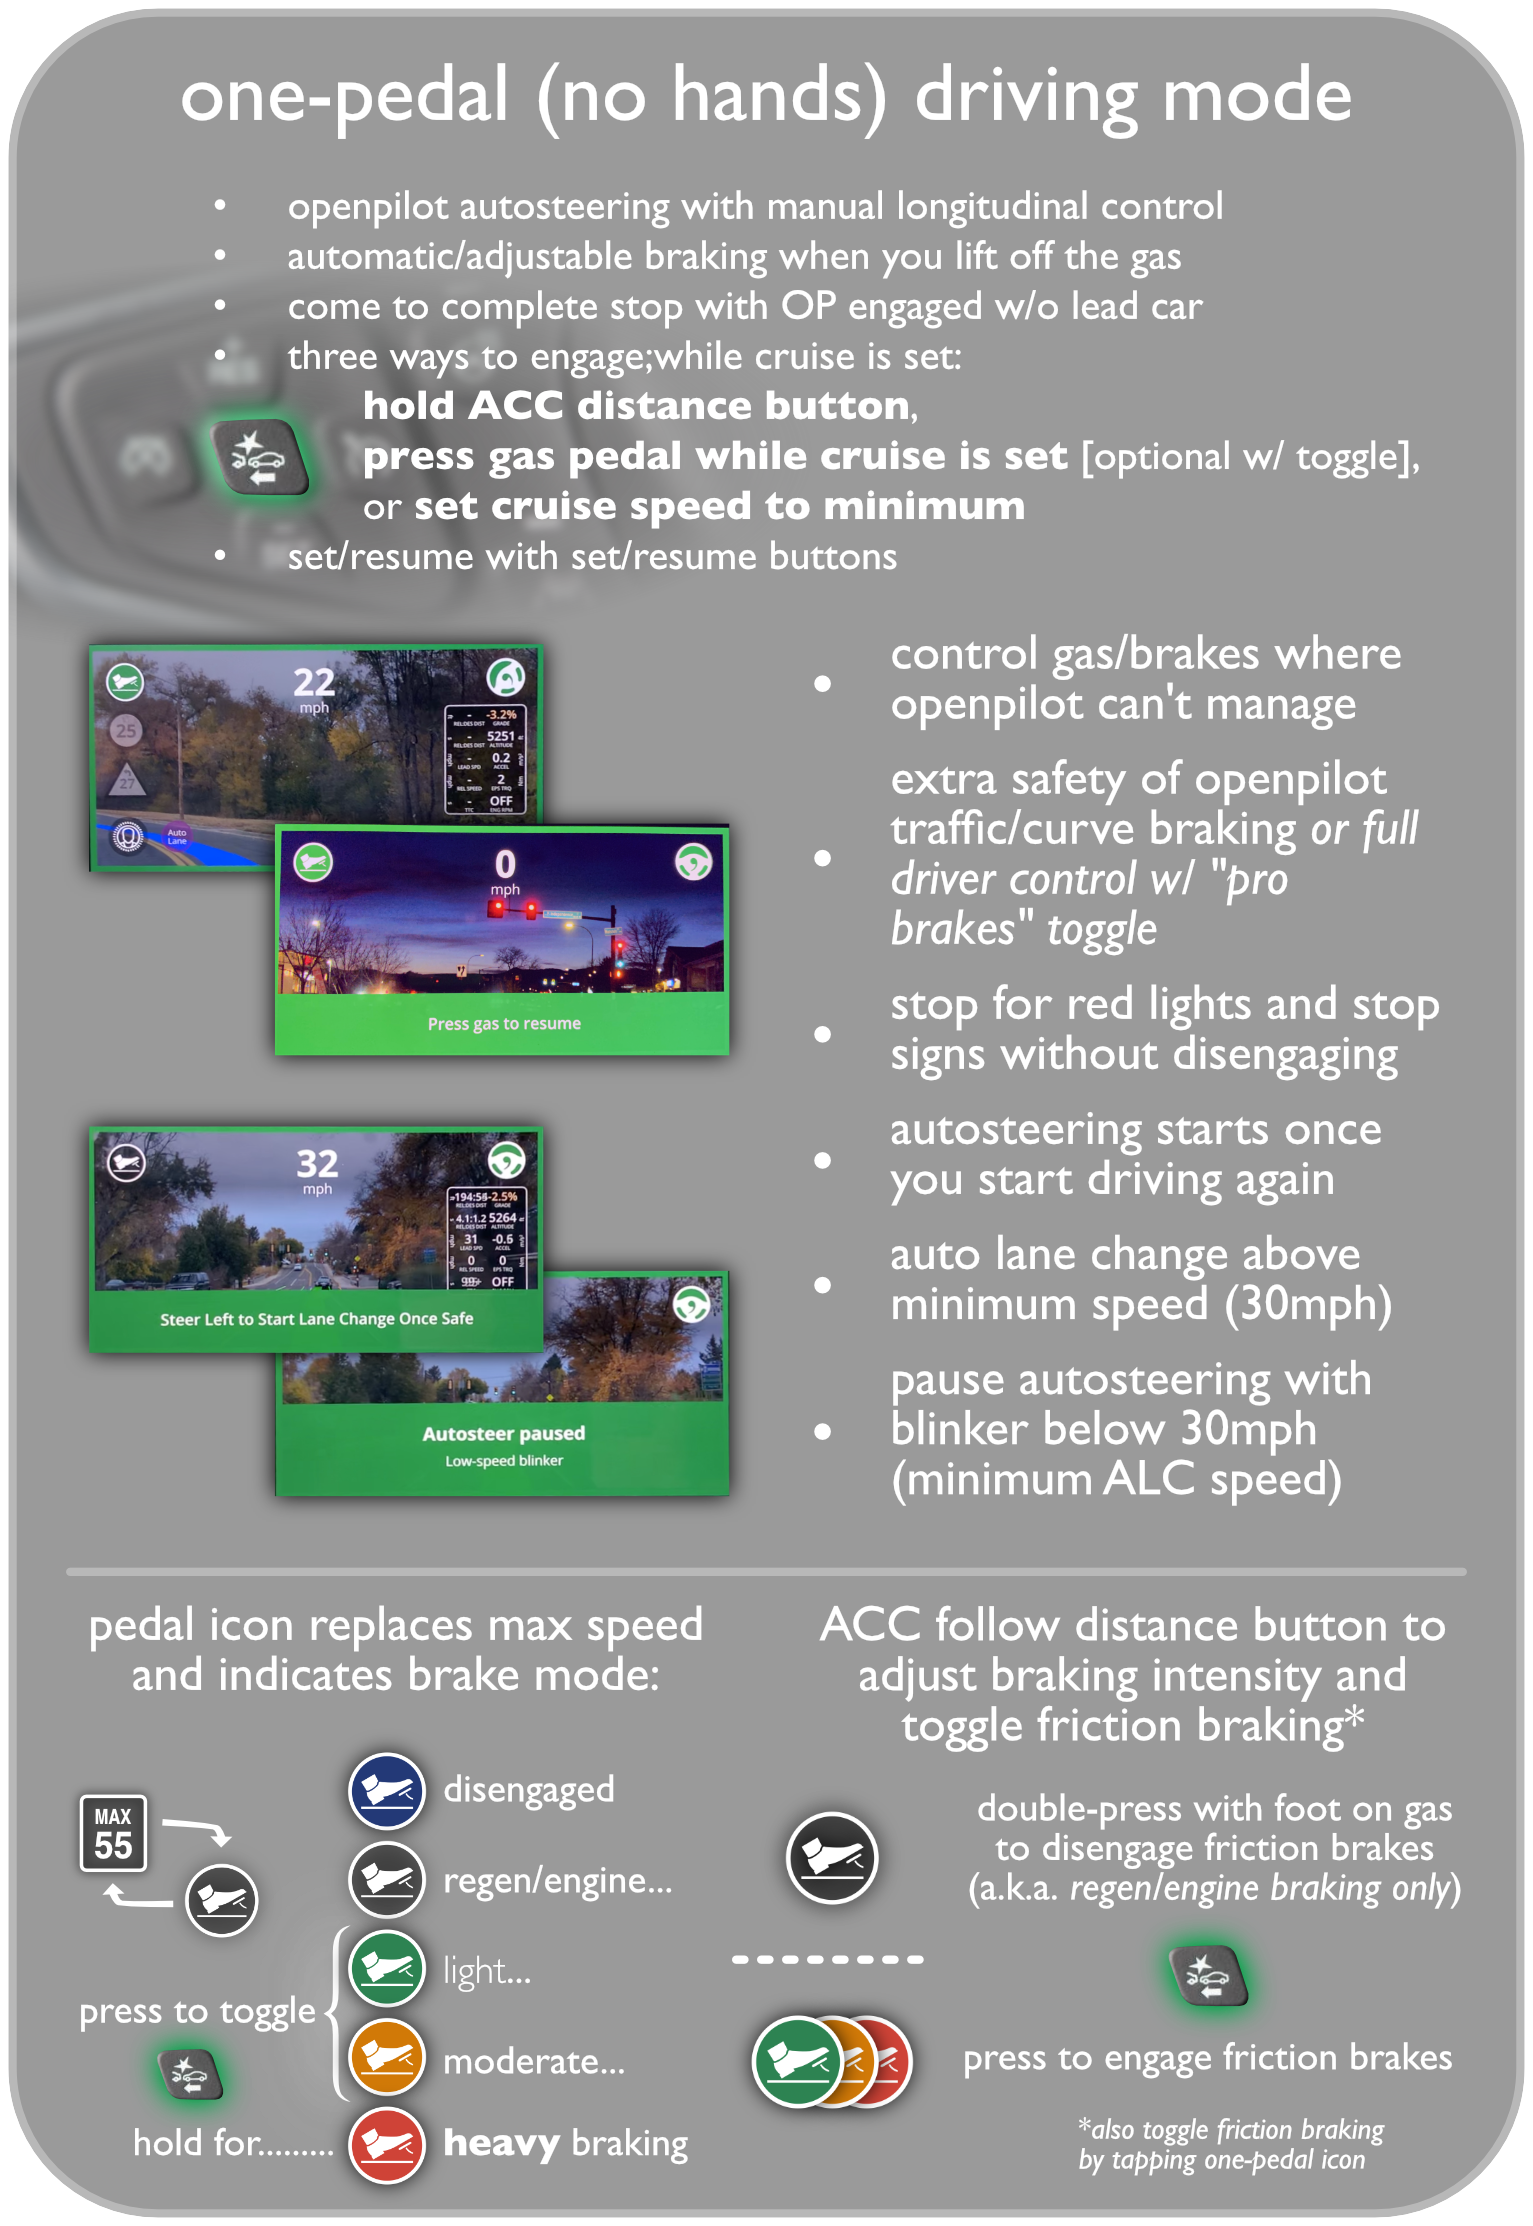
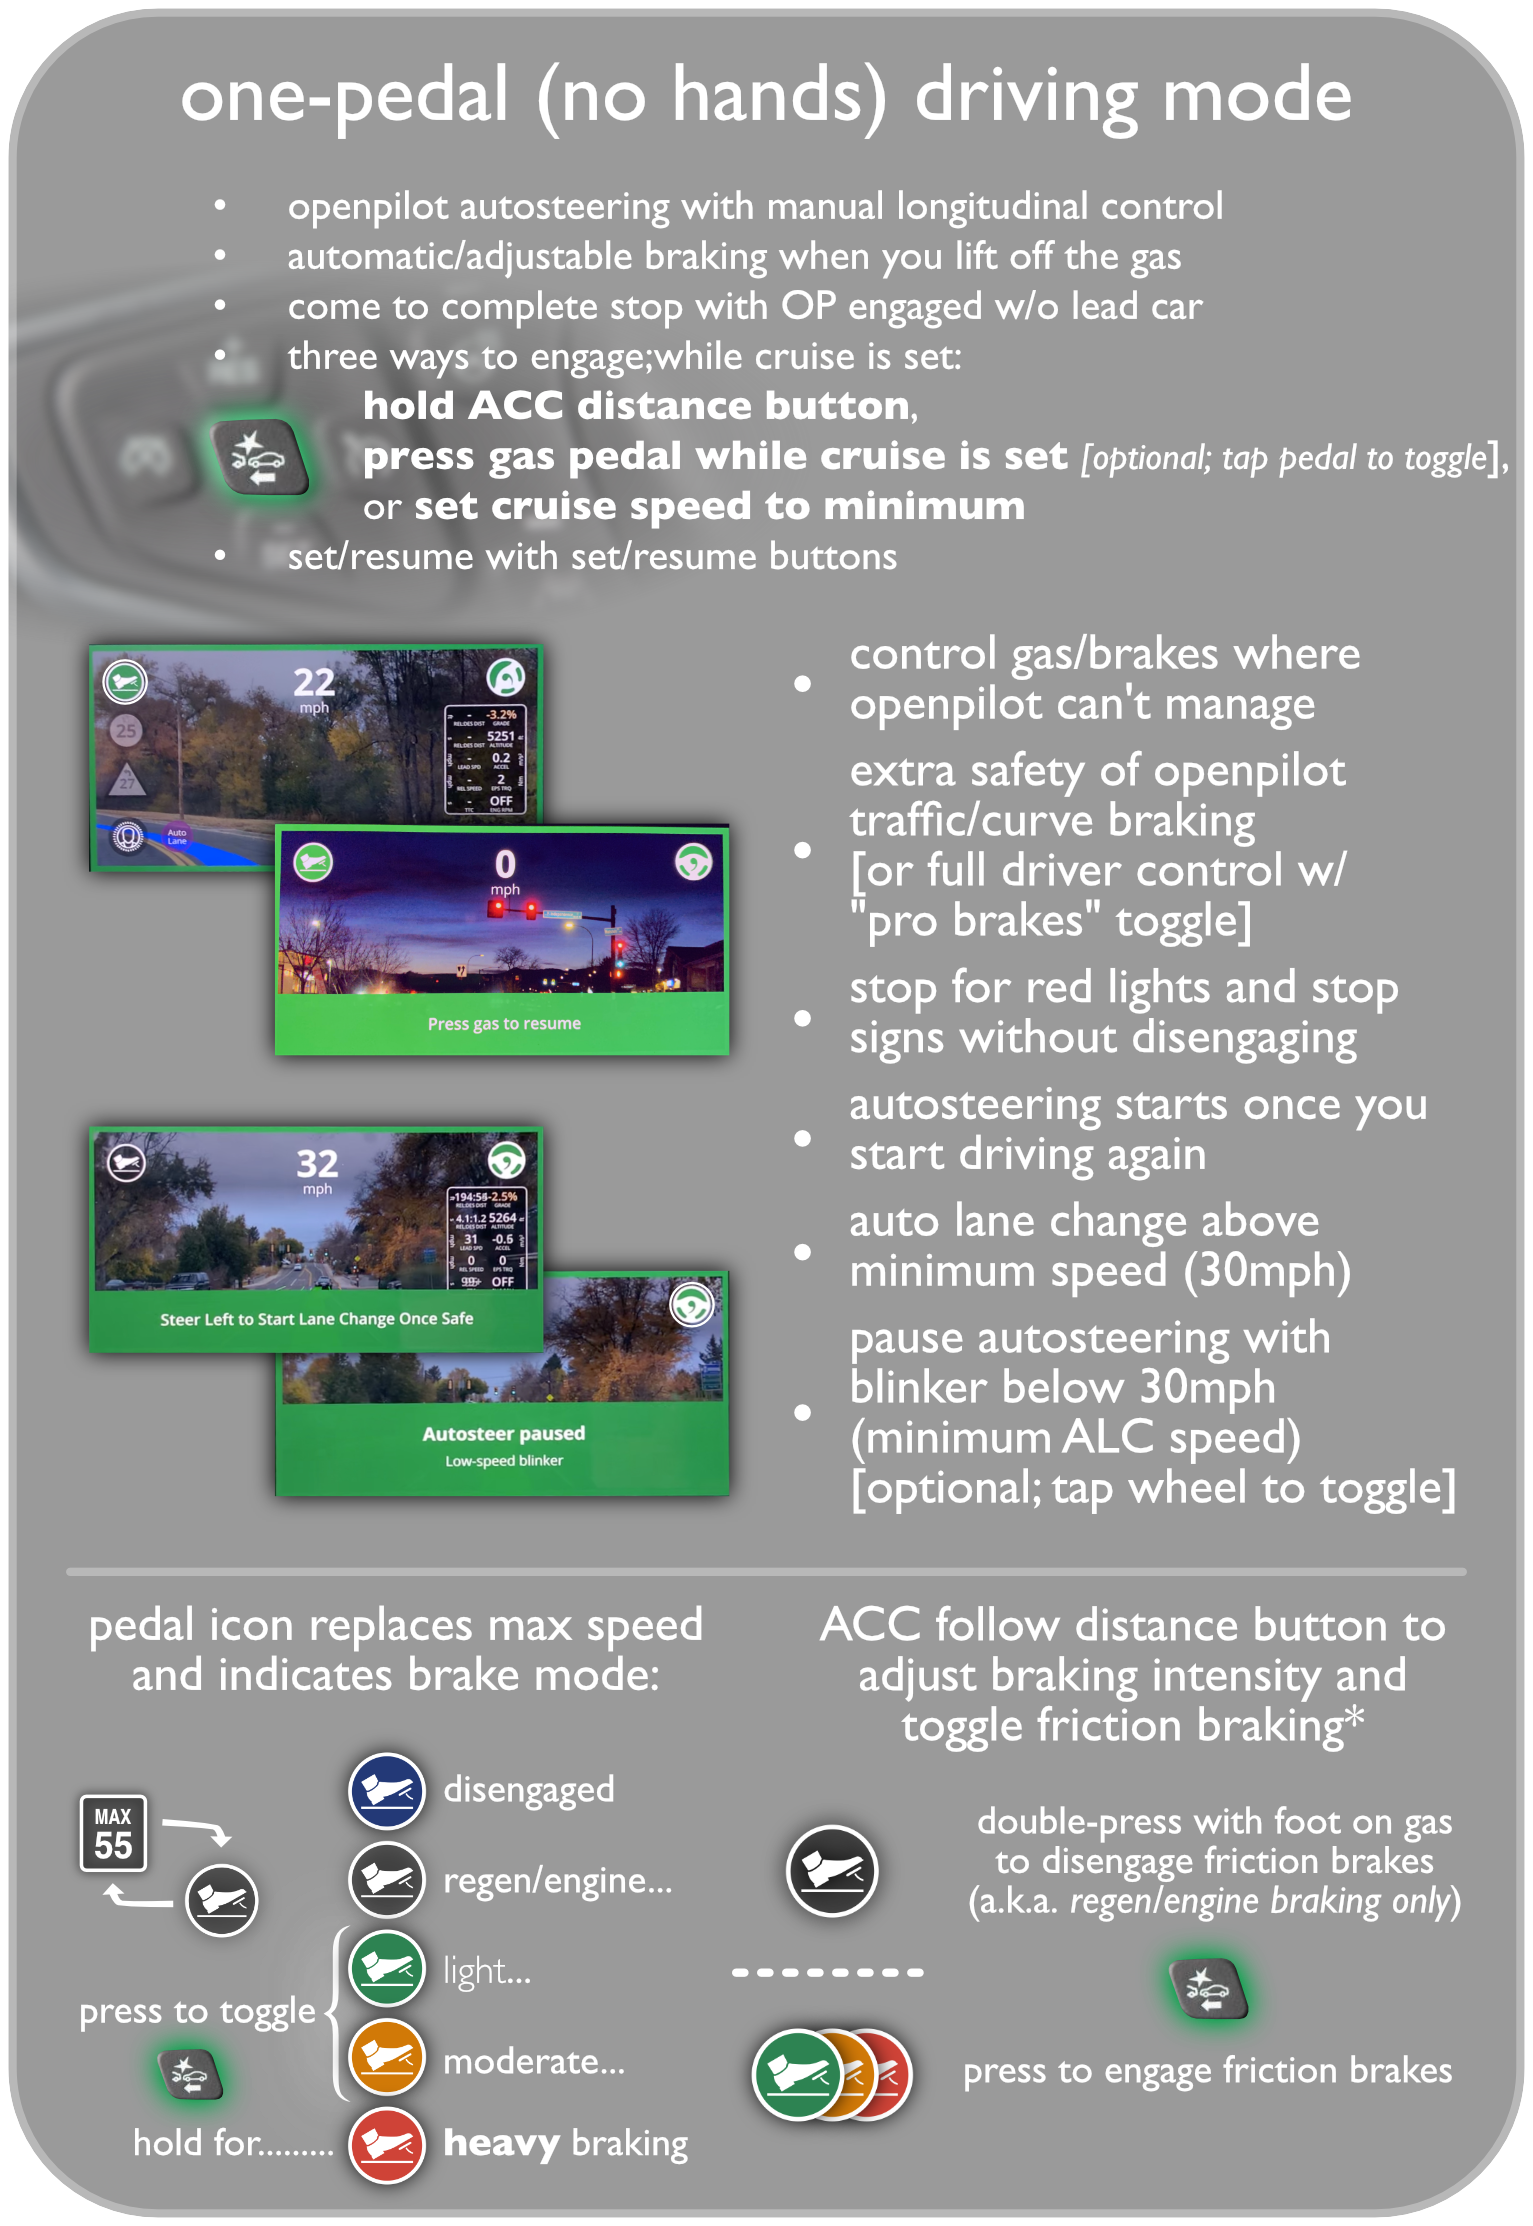
update readme/releases/fork images

diff --git a/README.md b/README.md
@@ -40,8 +40,8 @@ Running on move-fast fork of openpilot, which adds:
 - [x] [✅] Alternate sound effect set
 - [x] [✅] Mute engage and disengage sounds
 - [x] [✅] Coasting: OP will still brake behind a lead car and to slow down for curves, but will not apply engine/regen/friction brakes in order to keep the set speed (by user or map speed limit)
-    * Toggle coasting while driving by tapping the brake indicator (if enabled)
-    * A "+" after the max speed (and/or a white circle around the brake indicator) indicates that coasting is enabled
+    * Toggle coasting while driving by tapping the max speed indicator
+    * A "+" after the max speed indicates that coasting is enabled
     * *Can be a bit rough on the brakes when following downhill over set speed; recommend to disable if uncomfortable when constantly following downhill*
 - [x] [✅] Brake when 15% over set speed when coasting enabled
 - [x] [✅] Nudgeless lane change: OP will start lane change automatically in direction of blinker after blinker on for 3s
@@ -55,8 +55,9 @@ Running on move-fast fork of openpilot, which adds:
         * Vehicle info: Engine RPM, steering torque, steering angle, desired steering angle, vehicle acceleration, vehicle jerk, percent grade of current road
         * Lead-following info: follow distance level, lead distance [length], desired lead distance [length], lead distance [time], desired lead distance [time], follow distance and acceleration mpc costs [in units of the stock OP costs; i.e. 2.5 means 2.5× the stock OP value], relative lead velocity, absolute lead velocity
 - [x] [GM] [✅] **One-pedal driving**: OP will apply light to heavy braking when you let completely off the gas, allowing you to come to a full stop and resume without OP disengaging
-    * Must have disable disengage on gas enabled
-    * **Not necessary to enable the one-pedal toggle; you engage while driving**
+    * Must have disable disengage on gas toggle enabled
+    * **Not necessary to enable the one-pedal toggle; you engage/disengage while driving**
+    * When blinker is on below 30mph, autosteer will automatically pause [optional; tap wheel icon to toggle while in one-pedal mode; a second white circle around the wheel icon indicates autosteer pause is enabled]
     * Engage in three ways
       1. While cruise is set, press and hold the follow distance button for 0.5s (continue to hold for immediate hard braking if necessary)
       2. If one-pedal engage on gas toggle is enabled, press gas while cruise is set and traveling above 1mph
@@ -70,7 +71,7 @@ Running on move-fast fork of openpilot, which adds:
       * Double-press when gas is press and friction braking is active: deactivate friction braking
 - [x] [GM] [✅] One-pedal pro braking: Completely disable cruise/speed limit/curve/follow braking when in one-pedal mode. You are soley responsible for slowing the car using the adjustable one-pedal braking (by pressing/holding the follow distance button) or with the physical brakes/regen paddle
 - [x] [GM] [✅] One-pedal engage on gas: When cruising at speed and the driver presses the gas (i.e. not when resuming from a stop), engage one-pedal/always-on-steering mode
-    * Increase or reset speed to return to normal cruise.
+    * Toggle while driving by tapping the pedal icon
 - [x] [GM] JShuler panda-based GM steering fault fix
 - [x] Remember last follow mode
 

diff --git a/RELEASES.md b/RELEASES.md
@@ -1,10 +1,12 @@
-Version tw-0.8.9-3.5 (2021-11-08)
+Version tw-0.8.9-3.5 (2021-11-10)
 ========================
  * NEW: Latest 0.8.10 supercombo (laneless + laneful) model
  * NEW: Latest 0.8.10 driver monitoring model
  * NEW: Update to AGNOS2 for Comma3 users
  * NEW: Added follow level UI metric
- * IMPROVED: Add "+" after max speed to indicate that coasting is enabled (ring around brake indicator also shown)
+ * IMPROVED: Toggle coast mode while driging by tapping max speed (indicated by "+" after max speed; ring around brake indicator no longer shown)
+ * IMPROVED: Toggle one-pedal engage on gas feature while driving by tapping pedal icon (indicated by ring around pedal icon)
+ * IMPROVED: Toggle auto-pause of auto-steer (when in one-pedal mode below 30mph with blinker) while driving by tapping wheel icon (indicated by ring around wheel icon while one-pedal mode active)
  * IMPROVED: Better (but still hackey) follow braking when coasting behind lead downhill
  * FIXED: After using one-pedal hard braking during a driving session, it no longer defaults to moderate braking for future one-pedal braking engagements
  * FIXED: JShuler panda gm steering fix
